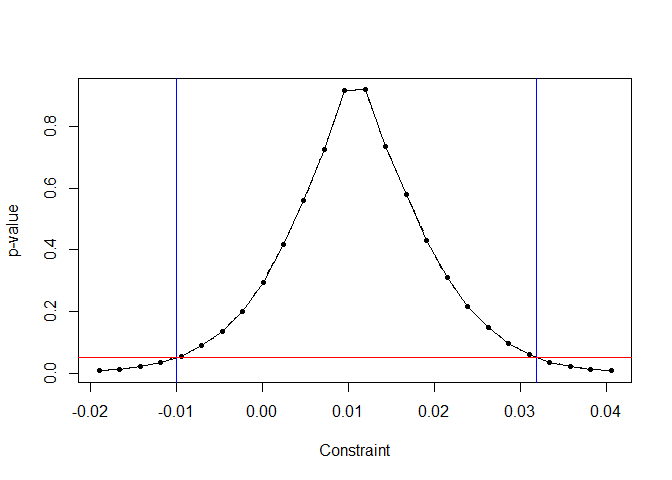
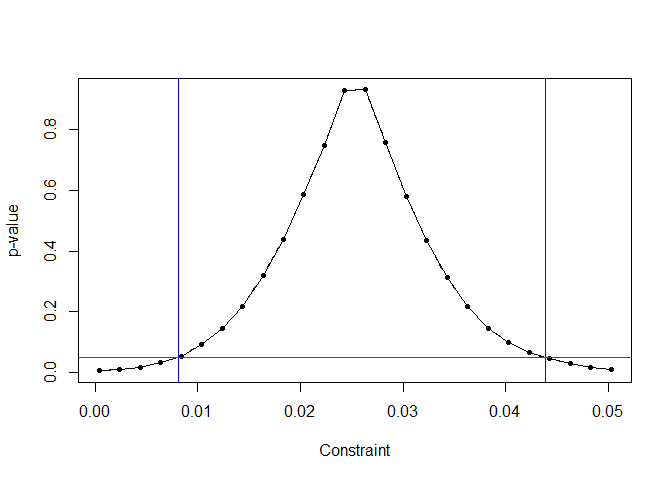
update tests and readme

diff --git a/README.md b/README.md
@@ -93,10 +93,10 @@ summary(boot_lm)
 #>  Number of Clusters: 20
 #> 
 #>           Estimate t value Pr(>|t|) CI Lower CI Upper
-#> treatment    0.011    1.09    0.292    -0.01    0.032
+#> treatment    0.025   3.047    0.006    0.008    0.044
 tidy(boot_lm)
-#>             Estimate  t value Pr(>|t|)     CI Lower   CI Upper
-#> treatment 0.01080738 1.089841   0.2918 -0.009933565 0.03186458
+#>             Estimate  t value Pr(>|t|)    CI Lower   CI Upper
+#> treatment 0.02532767 3.046986   0.0056 0.008060003 0.04383268
 ```
 
 <!-- The `boottest` function always calculates p-values for a given univariate hypothesis test. -->
